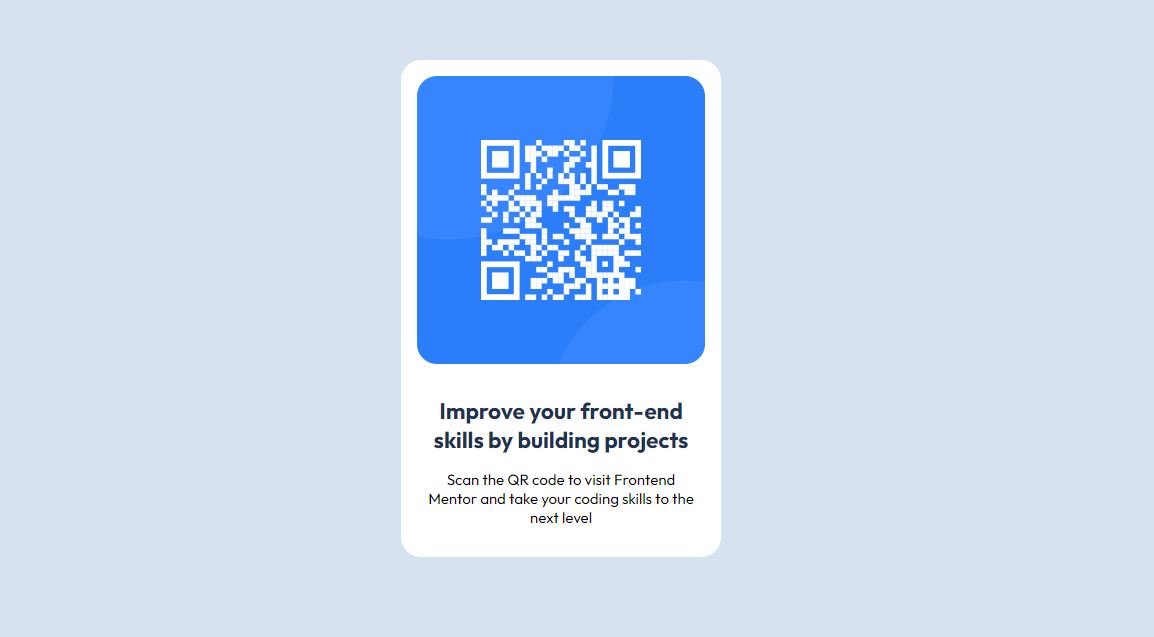
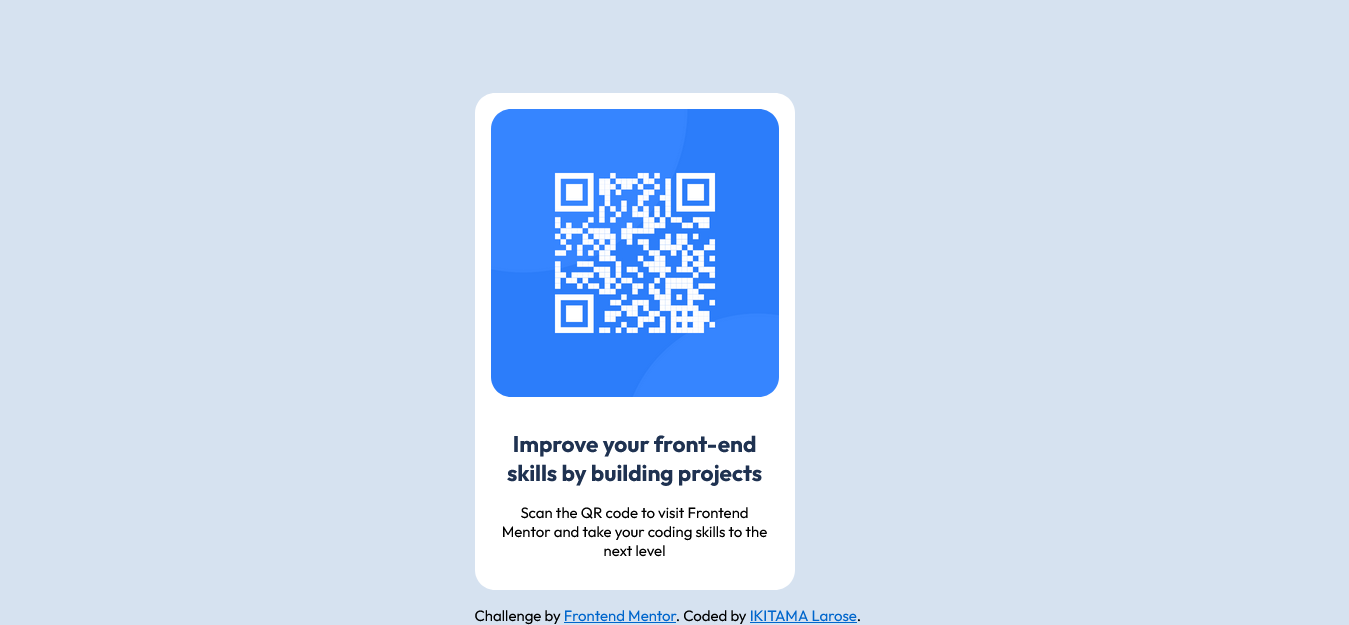
updated main.css

Changed region(s): [[0.3432, 0.0912, 0.6239, 0.9424], [0.3432, 0.9728, 0.6551, 1.0]]

diff --git a/style/main.css b/style/main.css
@@ -28,54 +28,48 @@ body {
   font-family: var(--body-font);
   font-size: var(--body-font-size);
   font-weight: var(---body-font-weight);
+  display: grid;
+  place-content: center;
+  height: 100vh;
 }
 
 .card {
   width: 20rem;
   height: 31.063rem;
-  margin: auto;
   display: flex;
   flex-direction: column;
   background: var(--white);
   border-radius: 1.25rem;
   margin-top: 7rem;
 }
+
 .card__content {
   margin: 1rem;
   text-align: center;
 }
+
 .card__image {
   width: 18rem;
   height: 18rem;
   margin: 1rem;
   border-radius: 1.25rem;
 }
+
 .card__title {
   font-weight: var(--title-font-weight);
   color: var(--dark-blue);
   margin-bottom: 1rem;
 }
 
-.attribution{
-  display: flex;
-  flex-direction: row;
-  justify-content: center;
+.attribution {
   width: 25rem;
-  margin: auto;
   margin-top: 1rem;
-  
 }
 
 /* media query */
-@media (max-width: 375px) {
+@media (max-width: 768px) {
   .card {
-    display: flex;
-    flex-direction: column;
-    align-items: center;
+    margin: auto;
   }
 
-  .attribution{
-    flex-direction: column;
-    
-  }
 }
